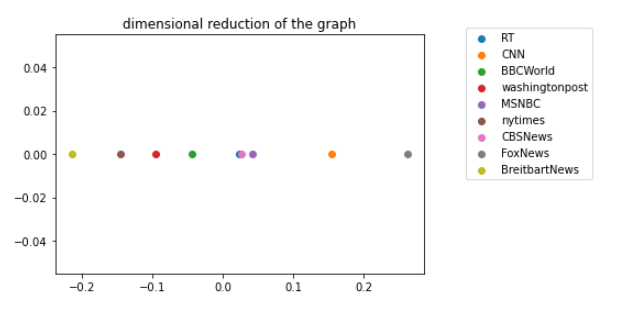
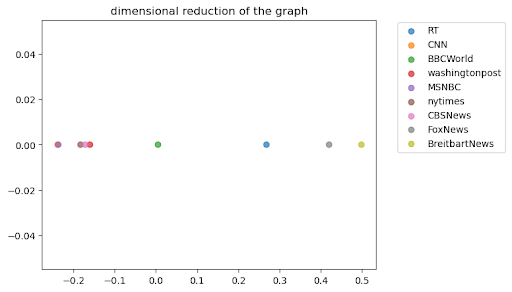
update

diff --git a/index.md b/index.md
@@ -115,18 +115,30 @@ To recap we define the position of news stations in a political spectrum as thei
 
 
 # Results
-Through reducing the graph to a 1-D euclidean space, we can observe the pairwise similarity between the news stations. Again, it is important to note that the plot only captures the relative position of the news stations from the higher dimension euclidean space that they reside in. However, the relative distance between the news stations are still observable from the plot. 
-The greatest distance is between Breitbart News and Fox News with the next greatest between CNN and New York Times. This finding is contrary to what is expected based on the traditional political alignments of the news stations being observed.
+Through reducing the graph to a 1-D euclidean space, we can observe the pairwise similarity between the news stations. Again, it is important to note that the plot only captures the relative position of the news stations from the higher dimension euclidean space that they reside in. However, the relative distance between the news stations are still observable from the plot.
 
 ![1_d_reduction](figures/1_d_reduction.png)
 
-The results of the spectral embedding did not align with the expected results. This has several implications about the underlying assumptions made which were discussed in the methodology section. That would be that the use of hashtags is sufficient in representing the user’s political affiliation and in turn, the news station as well. However, if taking the results at face value, this brings up further questions about the nature of the relationship between the viewer base and the news networks as well as the difference in behavior  caused by the setting of social media and an online world.
+Fig 2.1 presents the result for our chosen similarity parameter - normalized vector, removed certain hashtags and case insensitive hashtag counting. The resultant order on the spectrum from left to right is CNN and MSNBC (largely overlapped), NYT, CBS, Washington, BBC, RT, FOX, Breitbart. 
 
 # Discussion
-The results of the spectral embedding did not align with the expected results. This has several implications about the underlying assumptions made which were discussed in the methodology section. That would be that the use of hashtags is sufficient in representing the user’s political affiliation and in turn, the news station as well. However, if taking the results at face value, this brings up further questions about the nature of the relationship between the viewer base and the news networks as well as the difference in behavior caused by the setting of social media and an online world.
+In general, the main takeaway is that the aggregation of relative pairwise distance does indeed lead to a resultant overall order of data points that fits our expectation, that is - the likes of CNN on one end of spectrum and the likes of Breitbart News on the other. Taking a look back at the similarities of the news stations in Fig. 2.1, CNN, MSNBC, the NewYorkTimes, CBSNews, and the Washington Post fit in their own cluster. BBCWorld and RTAmerica are distant from the other news stations but considering the small similarity between them, RTAmerica fits closer to the cluster of FoxNews and BreitbartNews. These clusters fit the convention of the political leanings of the news stations. 
+
+Fig 3.1 Media bias Rating from AllSides
+Fig 3.2 Ideological placement from Pew Research Center
+
+![alt](all_sides_chart.png) ![alt](poltical_spectrum.png)
+
+To contextualize the conventional conception of political leaning of news outlets, we compare our results to existing results from other researches on the same topic. Both the media bias rating from AllSides and the ideological placement from Pew Research Center utilizes heuristic approaches such as surveys and editorial reviews in their methodology. The order of news stations displayed in our spectrum is very similar to that of the two previous researches mentioned above, with CNN and MSNBC on one extreme and Fox and Breitbart on the other. 
+
+However, the difference between these findings and the conventional wisdom is that these groupings were based off of the viewer bases of the news stations. Another thing to note is the similarity in what is considered to be left leaning news stations to be a lot more tighter than those considered to be right leaning news stations. This could point to a difference between the general fields of thought or further divisions within the right side of the political spectrum but could be caused by the limited sample of news stations observed.
+
+Additionally, aside from our chosen set of parameters, we also performed a grid search on combinations of other parameters for the similarity function. The findings made above are still present with little variation when testing other combinations of the parameters for the function. While there lies variation in the relative distances, the clusterings and ordering of are present in all of the combinations available. We believe that this low variance in result serves as evidence to the robustness of this method of quantifying the political leanings and underlying political spectrum.
+
+The distinction that the viewer base reflects the political leanings of the news networks they follow brings further questions. This correlation of political division needs further analysis and a deeper dive into the dynamics and understanding of politics. At this point, there seems to be a relationship between the political bias of viewers and that of the content and framing that is present in the news presented by the news stations; whether that be the viewers influencing the content being presented or the viewers influenced by the bias in the news itself but most likely something much more nuanced and complex. 
 
 # Conclusions
-Initially, we hoped to discern the discrepancy between traditional notions of news outlets’ political affiliation and the political affiliation of their viewer base on social media. Our initial results did not align with our expectations which instead raised further questions about our methodology but also the nature of social media and the dynamics of online presentation. Though there were a number of limitations our team faced. To begin with, there was space and time limitations to collecting a more extensive dataset as well as utilizing a larger amount of users per news station partially due to api call limits.
+Throughout this paper, we observed the political leaning of several news stations observed through the lens of their viewer base. From this we managed to capture that the viewer base holds a tight correlation with the political leaning of the news stations they subscribe to. There is a slight discrepancy between the findings and what is expected but within reason of variance. While this finding may not be surprising for someone who is aware of the current political climate in America, it is further statistical evidence to the division that the country is facing. While the direction of the relationship between news stations and their viewer base was not explored, this serves as a starting point for the potential importance of news stations as a key player in influencing political thought and conversation. Bias in news continues to be an issue in providing factual information to the general public.
 
 
 
